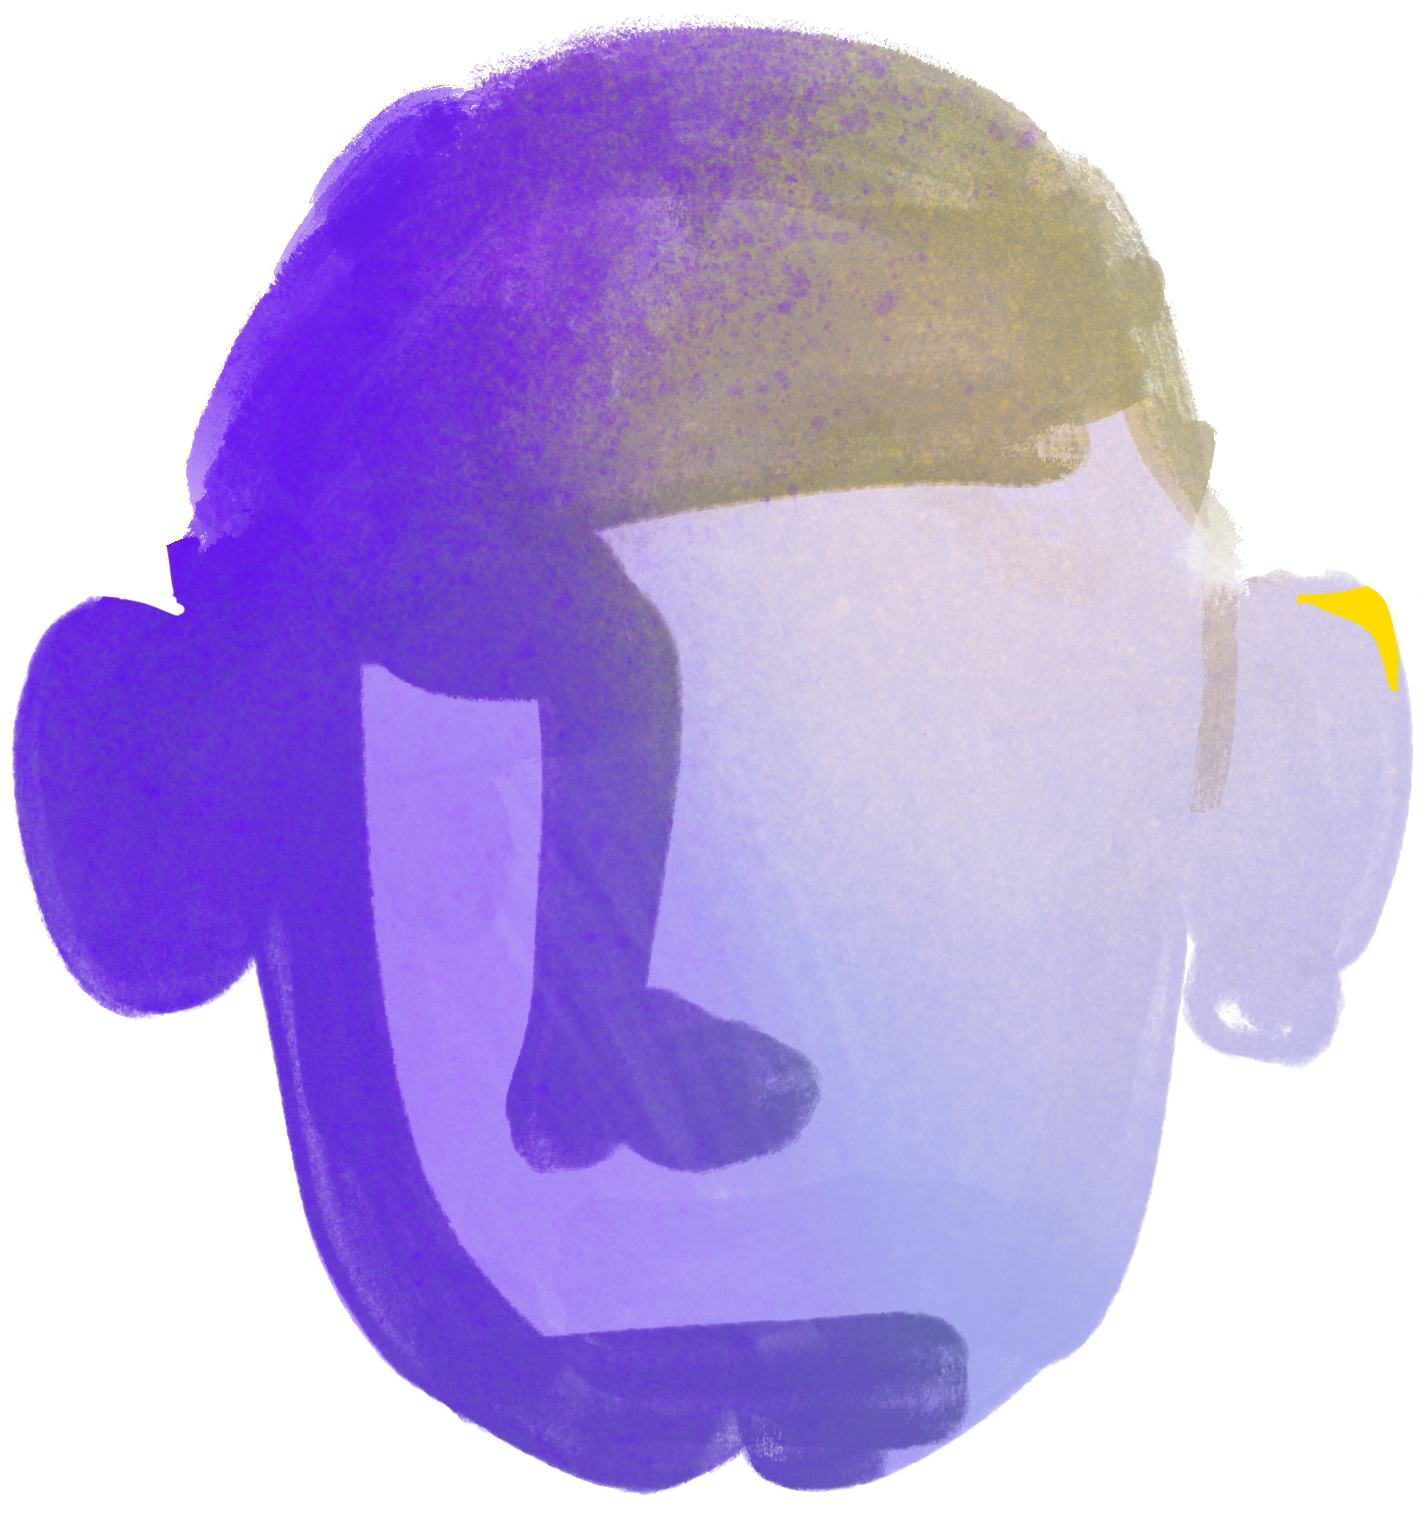
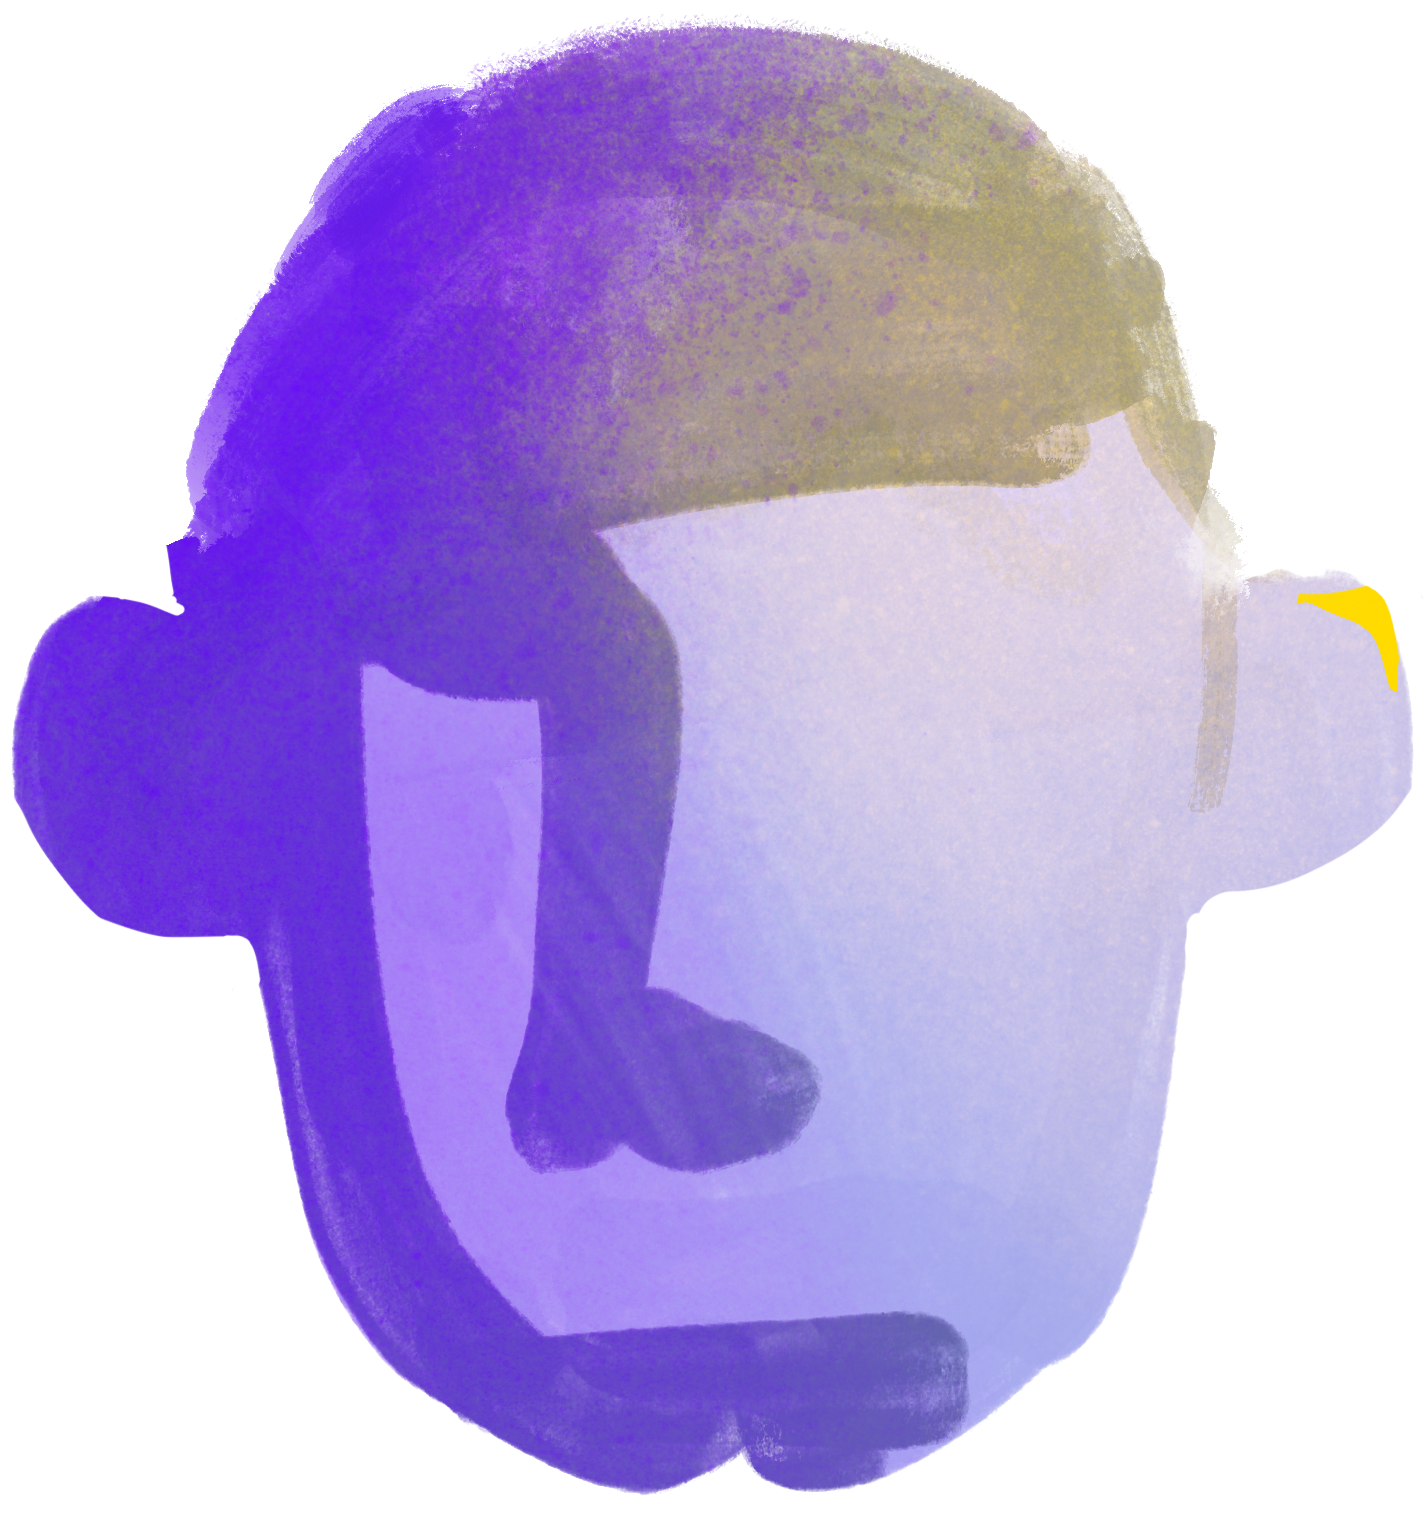
Ellie Tutorial
Added "StartGame" "StopGame" functions
created "playable" bool
implemented list comparison

Changed region(s): [[0.8331, 0.5299, 0.9874, 0.7169], [0.0, 0.5299, 0.1851, 0.6857]]

diff --git a/Assets/Scripts/LevelManager.cs b/Assets/Scripts/LevelManager.cs
@@ -6,7 +6,16 @@ using UnityEngine;
 
 public class LevelManager : MonoBehaviour
 {
+    private List<inputNames> generatedList;
+    internal List<inputNames> playerInputList;
+
     private int beat;
+    private int Bar;
+    private int currentPatternSize = 0;
+
+    public bool playable = false;
+    public bool playerInputAllowed = false;
+    public List<GameObject> inputObjects;
 
     public int Beat 
     { 
@@ -17,10 +26,6 @@ public class LevelManager : MonoBehaviour
             beat = value % 8; 
         }
     }
-
-    private int Bar;
-
-    public bool playerInputAllowed = false;
 
     public enum inputNames
     {
@@ -35,14 +40,6 @@ public class LevelManager : MonoBehaviour
 
     }
 
-    private List<inputNames> generatedList;
-    internal List<inputNames> playerInputList;
-
-
-    public List<GameObject> inputObjects;
-
-    //[LEFT_EYE, MOUTH, RIGHT_EAR]
-
     //list of possible patterns. -1 represents a Beat that nothing needs doing on, 0-7 represent the one of the list that needs doing; the position of each number, 0-7, is the Beat the number is for
     private int[,] patterns = 
         {
@@ -56,8 +53,6 @@ public class LevelManager : MonoBehaviour
             { 0, 1, 2, 3, 4, 5, 6, 7 }
         };
 
-    private int currentPatternSize = 0;
-
     void Awake()
     {
         playerInputList = new List<inputNames>();
@@ -68,38 +63,48 @@ public class LevelManager : MonoBehaviour
 
     void Update()
     {
-        //playerInputAllowed = Bar == 3;
-        //playerInputAllowed = Bar == 7;
-        //if (Bar > 7) 
-        playerInputAllowed = Bar % 2 == 1;
+        if (playable)
+        {
+            //playerInputAllowed = true;
+            playerInputAllowed = Bar % 2 == 1;
+        }
+        else
+        {
+            playerInputAllowed = false;
+        }
     }
 
-    //_,call,_,response,_,call,_,response....
+    // This function can be called by a button in the intro UI
+    public void StartGame()
+    {
+        playable = true;
+    }
 
-    // BeatUpdate is called once per beat (quavers, 1/8th notes)
+    // Can be called by another script or a UI button
+    public void StopGame () 
+    { 
+        playable = false; 
+    }
+
+    public void AddInput(inputNames thisInputName)
+    {
+        playerInputList.Add(thisInputName);
+        if (playerInputList.Count == generatedList.Count)
+        {
+            if(generatedList.SequenceEqual(playerInputList))
+            {
+                Debug.Log("FUCK YEAH!");
+            }
+        }
+    }
+
     public void BeatUpdate()
     {
         //Dont remove this it makes the whole thing work
         Beat++;
-        //Debug.Log(Beat);
+        //return;
 
-        //Modulo
-        //int modulo = 72 % 5; // returns 2
-        // % is the modulo operator: It gives the remainder after division.
-
-        //checking if 2 lists are equivalent (returns a bool)
-        //generatedList.SequenceEqual(playerInputList);
-
-        // Casting an int to the enum type
-        //inputNames n = (inputNames)0;
-        //inputNames r = (inputNames)Random.Range(0, 7);
-
-        //generates list
-        //generatedList.Clear() empties the list
-
-     
-        //rough outline for making animations happen in a simon says Bar
-        if (Bar % 2 == 0)
+        if (Bar % 2 == 0 && playable)
         {
             if (Beat == 0)
             {
@@ -113,7 +118,8 @@ public class LevelManager : MonoBehaviour
                 //do something with generatedList[patterns[s, Beat]]
                 foreach (GameObject g in inputObjects) //check each possible interactable gameobject
                 {
-                    if (g.GetComponent<InputObject>().inputType == generatedList[patterns[currentPatternSize, Beat]]) //for the gameobject we are on, we check if it's name (from the enum) is the same as the name of the one we need to animate
+                    //for the gameobject we are on, we check if it's name (from the enum) is the same as the name of the one we need to animate
+                    if (g.GetComponent<InputObject>().inputType == generatedList[patterns[currentPatternSize, Beat]]) 
                     {
                         //animation
                         //Debug.Log(g.GetComponent<InputObject>().inputType);

diff --git a/Assets/Scripts/TouchToggle.cs b/Assets/Scripts/TouchToggle.cs
@@ -42,14 +42,14 @@ public class TouchToggle : MonoBehaviour
         {
             Debug.Log("Hit");
             //GetComponent<InputObject>().PlaySound();
-            
-            if (levelManager.playerInputAllowed) 
+
+            if (levelManager.playerInputAllowed)
             {
-                   levelManager.playerInputList.Add(GetComponent<InputObject>().inputType);
-                   GetComponent<InputObject>().Animate();
-                   GetComponent<InputObject>().PlaySound();
+                levelManager.AddInput(GetComponent<InputObject>().inputType);
+                GetComponent<InputObject>().Animate();
+                GetComponent<InputObject>().PlaySound();
             }
-             
+
         }
     }
 }

diff --git a/Assets/Scripts/InputObject.cs b/Assets/Scripts/InputObject.cs
@@ -3,12 +3,13 @@ using UnityEngine;
 public class InputObject : MonoBehaviour
 {
     public LevelManager.inputNames inputType;
-    [SerializeField] private Animator circleAnim;
+    [SerializeField] private Animator animate;
     [SerializeField] private AudioSource audioSource;
+    //[SerializeField] private AudioClip[] clip;
 
     public void Animate()
     {
-        if (circleAnim != null) circleAnim.SetTrigger("BeatPulse");
+        if (animate != null) animate.SetTrigger("Animate");
     }
 
     public void PlaySound()

diff --git a/Assets/Scripts/TouchDrag.cs b/Assets/Scripts/TouchDrag.cs
@@ -40,7 +40,7 @@ public class TouchDrag : MonoBehaviour
 
     void Update()
     {
-        if (Touchscreen.current != null)
+        if (Touchscreen.current != null && levelManager.playerInputAllowed)
         {
             var touch = Touchscreen.current.primaryTouch;
             Vector2 screenPos = touch.position.ReadValue();
@@ -169,7 +169,7 @@ public class TouchDrag : MonoBehaviour
         {
             if (levelManager.playerInputAllowed)
             {
-                levelManager.playerInputList.Add(GetComponent<InputObject>().inputType);
+                levelManager.AddInput(GetComponent<InputObject>().inputType);
                 GetComponent<InputObject>().PlaySound();
                 Debug.Log("Drag");
             }